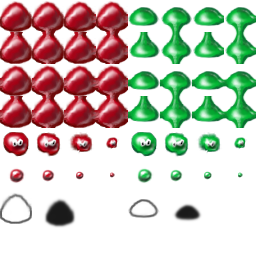
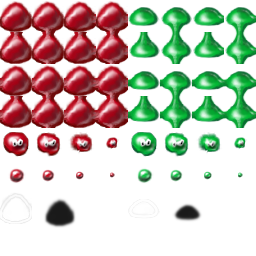
Modified blinking puyo animation, some OpenGL fixes
git-svn-id: svn+ssh://src.fovea.cc/svn/flobopuyo/branches/autotools@1847 053fdb51-1f17-0410-be66-d00040120cd6

Changed region(s): [[0.5, 0.7812, 0.625, 0.875], [0.0, 0.7812, 0.125, 0.875], [0.0312, 0.75, 0.0938, 0.7812]]

diff --git a/gametools/opengl_drawcontext/GLFreeType.cpp b/gametools/opengl_drawcontext/GLFreeType.cpp
@@ -4,18 +4,6 @@
    Sven Olsen, 2003
    */
 
-//OpenGL Headers 
-// #include <windows.h>		//(the GL headers need it)
-#if defined(__APPLE_CC__)
-//#include <OpenGLES/EAGL.h>
-#include <OpenGLES/ES1/gl.h>
-#include <OpenGLES/ES1/glext.h>
-//#include <OpenGL/gl.h>
-#else
-#include <GL/gl.h>
-#include <GL/glu.h>
-#endif
-
 //Include our header file.
 #include "GLFreeType.h"
 
@@ -40,7 +28,7 @@ namespace flobopop {
 
 int GLFONT_SCREEN_HEIGHT;
 float GLFONT_letter_spacing;
-    
+
 //Inside of this namespace, give ourselves the ability
 //to write just "vector" instead of "std::vector"
 using std::vector;
@@ -65,7 +53,7 @@ using std::string;
         glDeleteTextures(1, &texture);
         GL_GET_ERROR();
     }
-    
+
     ///Create a display list coresponding to the give character.
     void make_dlist ( FT_Face face, unsigned short ch, unsigned int h, GlyphData &glyphData) {
 
@@ -110,7 +98,7 @@ using std::string;
         // Is The FreeType Bitmap Otherwise.
         for(int j=0; j <height;j++) for(int i=0; i < width; i++) {
             expanded_data[2*(i+j*width)] = 255;
-            expanded_data[2*(i+j*width)+1] = (i>=bitmap.width || j>=bitmap.rows) ? 
+            expanded_data[2*(i+j*width)+1] = (i>=bitmap.width || j>=bitmap.rows) ?
               0 : bitmap.buffer[i + bitmap.width*j];
         }
         GL_GET_ERROR();
@@ -133,8 +121,8 @@ using std::string;
 
         //Now we need to account for the fact that many of
         //our textures are filled with empty padding space.
-        //We figure what portion of the texture is used by 
-        //the actual character and store that information in 
+        //We figure what portion of the texture is used by
+        //the actual character and store that information in
         //the x and y variables, then when we draw the
         //quad, we will only reference the parts of the texture
         //that we contain the character itself.
@@ -142,7 +130,7 @@ using std::string;
                 y=(float)bitmap.rows / (float)height;
 
         //Here we draw the texturemaped quads.
-        //The bitmap that we got from FreeType was not 
+        //The bitmap that we got from FreeType was not
         //oriented quite like we would like it to be,
         //so we need to link the texture to the quad
         //so that the result will be properly aligned.
@@ -182,7 +170,7 @@ using std::string;
         this->h=h;
 
         //Create and initilize a freetype font library.
-        if (FT_Init_FreeType( &library )) 
+        if (FT_Init_FreeType( &library ))
             throw std::runtime_error("FT_Init_FreeType failed");
 
         //The object in which Freetype holds information on a given
@@ -191,7 +179,7 @@ using std::string;
         //This is where we load in the font information from the file.
         //Of all the places where the code might die, this is the most likely,
         //as FT_New_Face will die if the font file does not exist or is somehow broken.
-        if (FT_New_Face( library, fname, 0, &face )) 
+        if (FT_New_Face( library, fname, 0, &face ))
             throw std::runtime_error("FT_New_Face failed (there is probably a problem with your font file)");
 
         //For some twisted reason, Freetype measures font size
@@ -199,7 +187,7 @@ using std::string;
         //h pixels high, we need to request a size of h*64.
         //(h << 6 is just a prettier way of writting h*64)
         FT_Set_Char_Size( face, h << 6, h << 6, 96, 96);
-        
+
         //This is where we actually create each of the fonts display lists.
         //for(unsigned short i=0;i<256;i++)
         //    make_dlist(face,i,h,asciiGlyphes[i]);
@@ -209,23 +197,23 @@ using std::string;
         //We don't need the face information now that the display
         //lists have been created, so we free the assosiated resources.
         FT_Done_Face(face);
-        
+
         //Ditto for the library.
         FT_Done_FreeType(library);
-        
+
         //We have to clean the map of non-ascii characters
         for (GlyphMap::iterator iter = nonAsciiGlyphes.begin() ;
              iter != nonAsciiGlyphes.end() ; iter++) {
             delete (iter->second);
         }
     }
-	
+
 	float GLFont::getWidthUnicode(const unsigned short *text)  {
         if (text == NULL)
             return 0.;
         MultiLine lines;
         textToLines(text, lines);
-		
+
         float width = 0.0f;
         for(unsigned int i=0;i<lines.size();i++) {
             float w = 0.0f;
@@ -286,9 +274,9 @@ using std::string;
         MultiLine lines;
         textToLines(text, lines);
 
-        //glPushAttrib(GL_LIST_BIT | GL_CURRENT_BIT  | GL_ENABLE_BIT | GL_TRANSFORM_BIT);	
+        //glPushAttrib(GL_LIST_BIT | GL_CURRENT_BIT  | GL_ENABLE_BIT | GL_TRANSFORM_BIT);
         //glMatrixMode(GL_MODELVIEW);
-        
+
         glDisable(GL_LIGHTING);
         glEnable(GL_TEXTURE_2D);
         glDisable(GL_DEPTH_TEST);

diff --git a/gametools/opengl_drawcontext/OpenGLDrawContext.cpp b/gametools/opengl_drawcontext/OpenGLDrawContext.cpp
@@ -7,6 +7,7 @@
 //
 
 #include <math.h>
+#include <string>
 #include "OpenGLDrawContext.h"
 #include "GTLog.h"
 #include "ios_mutex.h"
@@ -570,10 +571,10 @@ private:
             GLubyte *emptyData;
             switch (m_format) {
                 case GL_RGB:
-                    emptyData = (GLubyte *)malloc(3 * m_p2w * m_p2h);
+                    emptyData = (GLubyte *)calloc(3 * m_p2w * m_p2h, 1);
                     break;
                 default:
-                    emptyData = (GLubyte *)malloc(4 * m_p2w * m_p2h);
+                    emptyData = (GLubyte *)calloc(4 * m_p2w * m_p2h, 1);
                     break;
             }
             glTexImage2D(GL_TEXTURE_2D, 0, m_format, m_p2w, m_p2h, 0, m_format, GL_UNSIGNED_BYTE, emptyData);
@@ -748,6 +749,7 @@ public:
     virtual IosSurface *shiftHue(float hue_offset, IosSurface *mask = NULL);
     virtual IosSurface *shiftHSV(float h, float s, float v);
     virtual IosSurface *setValue(float value);
+    virtual IosSurface *setAlpha(float alpha);
     virtual IosSurface * resizeAlpha(int width, int height);
     virtual IosSurface * mirrorH();
     virtual void convertToGray();
@@ -774,10 +776,12 @@ public:
 private:
     OpenGLDrawContext *m_owner;
     OpenGLBackendUtil *m_backendUtil;
+protected:
+    float m_alpha;
 };
 
 IosGLSurfaceRef::IosGLSurfaceRef(OpenGLDrawContext *owner, OpenGLBackendUtil *backendUtil, OpenGLTexture *s)
-    : m_ref(s), m_owner(owner), m_backendUtil(backendUtil)
+    : m_ref(s), m_owner(owner), m_backendUtil(backendUtil), m_alpha(1.0)
 {
     this->h = m_ref->m_h;
     this->w = m_ref->m_w;
@@ -788,7 +792,7 @@ IosGLSurfaceRef::IosGLSurfaceRef(OpenGLDrawContext *owner, OpenGLBackendUtil *ba
 }
 
 IosGLSurfaceRef::IosGLSurfaceRef(IosGLSurfaceRef *s)
-    : m_ref(s->m_ref), m_backendUtil(s->m_backendUtil)
+    : m_ref(s->m_ref), m_backendUtil(s->m_backendUtil), m_alpha(1.0)
 {
     this->h = m_ref->m_h;
     this->w = m_ref->m_w;
@@ -868,6 +872,13 @@ IosSurface *IosGLSurfaceRef::setValue(float value)
         return ret;
     }
     return new IosGLSurfaceRef(this);
+}
+
+IosSurface *IosGLSurfaceRef::setAlpha(float alpha)
+{
+    IosGLSurfaceRef *result = new IosGLSurfaceRef(this);
+    result->m_alpha = alpha;
+    return result;
 }
 
 IosSurface * IosGLSurfaceRef::resizeAlpha(int width, int height)
@@ -1088,6 +1099,10 @@ void IosGLSurfaceRef::drawToGL(IosRect *pSrcRect, IosRect *pDstRect, ToGlDrawMod
         vertices[5] = pDstRect->y+pDstRect->h;
         vertices[6] = pDstRect->x+pDstRect->w;
         vertices[7] = pDstRect->y+pDstRect->h;
+        glEnable(GL_BLEND);
+        glBlendFunc(GL_SRC_ALPHA, GL_ONE_MINUS_SRC_ALPHA);
+        glColor4f(1.0f,1.0f,1.0f,m_alpha);
+
         glTexCoordPointer(2, GL_FLOAT, 0, &texcoord[0]);
         glEnableClientState(GL_TEXTURE_COORD_ARRAY);
         glVertexPointer(2, GL_FLOAT, 0, &vertices[0]);

diff --git a/gametools/CompositeDrawContext.cpp b/gametools/CompositeDrawContext.cpp
@@ -100,6 +100,21 @@ IosSurface *CompositeSurface::setValue(float value)
                                 srcSurface->setValue(value));
 }
 
+IosSurface *CompositeSurface::setAlpha(float alpha)
+{
+    IosSurface *srcSurface = m_baseSurface.get();
+    auto_ptr<IosSurface> tempSurface;
+    if (m_isCropped) {
+        DrawContext &baseDC = m_ownerImageLibrary.getBaseDrawContext();
+        tempSurface.reset(baseDC.getImageLibrary().createImage(IMAGE_RGBA, m_cropRect.w, m_cropRect.h, IMAGE_READ));
+        tempSurface->setBlendMode(IMAGE_COPY);
+        tempSurface->draw(m_baseSurface.get(), &m_cropRect, NULL);
+        srcSurface = tempSurface.get();
+    }
+    return new CompositeSurface(m_ownerImageLibrary,
+                                srcSurface->setAlpha(alpha));
+}
+
 IosSurface * CompositeSurface::resizeAlpha(int width, int height)
 {
     // If the DC doesnt'have the ability to scale graphics when drawing,

diff --git a/gametools/sdl_drawcontext/sdl12/sdl12_drawcontext.h b/gametools/sdl_drawcontext/sdl12/sdl12_drawcontext.h
@@ -11,7 +11,6 @@ class SDL12_IosSurface : public IosSurface
 public:
     SDL12_IosSurface(SDL_Surface *surf);
     virtual ~SDL12_IosSurface();
-    //void setAlpha(unsigned char alpha);
 public:
     // DrawTarget implementation
     virtual void draw(IosSurface *surf, IosRect *srcRect, IosRect *dstRect);
@@ -32,6 +31,7 @@ public:
     virtual IosSurface *shiftHue(float hue_offset, IosSurface *mask = NULL);
     virtual IosSurface *shiftHSV(float h, float s, float v);
     virtual IosSurface *setValue(float value);
+    virtual IosSurface *setAlpha(float alpha);
 
     virtual IosSurface * resizeAlpha(int width, int height);
     virtual IosSurface * mirrorH();

diff --git a/fpcore/AnimatedPuyoTheme.cpp b/fpcore/AnimatedPuyoTheme.cpp
@@ -456,7 +456,7 @@ IosSurface *PuyoThemeImpl::getCircleSurfaceForIndex(int index) const
             opList.setValue = true;
             m_baseCircle = theCommander->getSurface(IMAGE_RGBA, osstream.str().c_str(), opList);
         }
-        ref = m_baseCircle.get()->setValue(sin(3.14f/2.0f+index*3.14f/64.0f)*0.6f+0.2f);
+        ref = m_baseCircle.get()->setAlpha(sin(3.14f/2.0f+index*3.14f/64.0f)*0.6f+0.2f);
         m_surfaceBin.push_back(ref);
     }
     if ((ref == NULL) && (m_defaultTheme != NULL))

diff --git a/gametools/sdl_drawcontext/sdl12/sdl12_drawcontext.cpp b/gametools/sdl_drawcontext/sdl12/sdl12_drawcontext.cpp
@@ -285,6 +285,11 @@ IosSurface *SDL12_IosSurface::setValue(float value)
     return new SDL12_IosSurface(iim_sdlsurface_set_value(m_surf, value));
 }
 
+IosSurface *SDL12_IosSurface::setAlpha(float value)
+{
+    return NULL; // TODO: IMPLEMENT
+}
+
 IosSurface * SDL12_IosSurface::resizeAlpha(int width, int height)
 {
     return new SDL12_IosSurface(iim_sdlsurface_resize_alpha(m_surf, width, height));

diff --git a/gametools/CompositeDrawContext.h b/gametools/CompositeDrawContext.h
@@ -99,6 +99,7 @@ public:
     virtual IosSurface *shiftHue(float hue_offset, IosSurface *mask = NULL);
     virtual IosSurface *shiftHSV(float h, float s, float v);
     virtual IosSurface *setValue(float value);
+    virtual IosSurface *setAlpha(float alpha);
     virtual IosSurface * resizeAlpha(int width, int height);
     virtual IosSurface * mirrorH();
     virtual void         convertToGray();

diff --git a/gametools/drawcontext.h b/gametools/drawcontext.h
@@ -121,6 +121,7 @@ public:
     virtual IosSurface *shiftHue(float hue_offset, IosSurface *mask = NULL) = 0;
     virtual IosSurface *shiftHSV(float h, float s, float v) = 0;
     virtual IosSurface *setValue(float value) = 0;
+    virtual IosSurface *setAlpha(float alpha) = 0;
 
     virtual IosSurface * resizeAlpha(int width, int height) = 0;
     virtual IosSurface * mirrorH() = 0;
